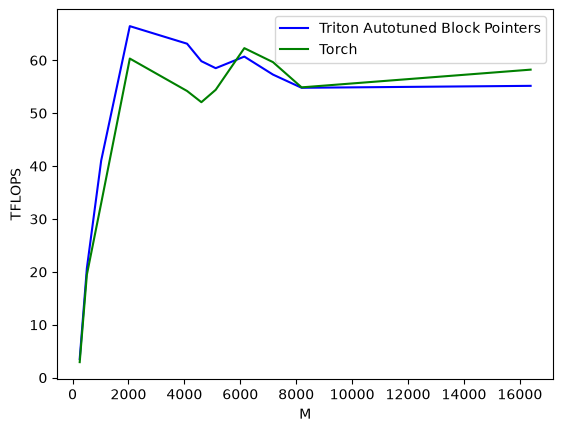
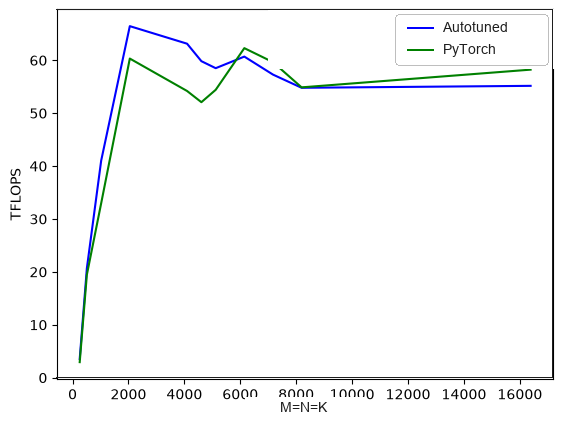
changes

diff --git a/triton_work/matrix_multiplication.py b/triton_work/matrix_multiplication.py
@@ -109,8 +109,9 @@ def matrix_multiplication_naive_blocked(a: torch.Tensor, b: torch.Tensor):
             x_vals=[128, 256, 512, 768, 1024],
             line_arg='provider',
             line_vals=['triton_naive', 'triton_naive_blocked', 'torch'],
-            line_names=['Triton Naive', 'Triton Naive Blocked', 'Torch'],
+            line_names=['Naive', 'K-blocked', 'PyTorch'],
             styles=[('blue', '-'), ('orange', '-'), ('green', '-')],
+            xlabel='M=N=K',
             ylabel='TFLOPS',
             y_log=True,
             plot_name=f'matmul_naive_vs_naiveblocked_{dtype_name}',
@@ -352,13 +353,14 @@ def matrix_multiplication_tiled(
             'torch',
         ],
         line_names=[
-            'Triton 64x64x64',
-            'Triton 128x128x64', 'Torch',
+            '64x64x64',
+            '128x128x64', 'PyTorch',
         ],
         styles=[
             ('blue', '-'),
             ('orange', '-'), ('green', '-'),
         ],
+        xlabel='M=N=K',
         ylabel='TFLOPS',
         plot_name='matmul-tiled-vs-torch-fp16',
         args={},
@@ -546,14 +548,14 @@ def matrix_multiplication_tiled_kernel_supergrouped(
         a_mask = m_mask[:, None] & k_mask[None, :]
         b_mask = k_mask[:, None] & n_mask[None, :]
 
-        a_vals = tl.load(a_ptrs, mask=a_mask)
-        b_vals = tl.load(b_ptrs, mask=b_mask)
+        a_vals = tl.load(a_ptrs, mask=a_mask, other=0.0)
+        b_vals = tl.load(b_ptrs, mask=b_mask, other=0.0)
 
         acc = tl.dot(a_vals, b_vals, acc)
 
     c_offsets = m_offsets[:, None] * c_row_stride + n_offsets[None, :] * c_col_stride
     c_mask = m_mask[:, None] & n_mask[None, :]
-    tl.store(c_ptr + c_offsets, acc.to(tl.float16), mask=c_mask)
+    tl.store(c_ptr + c_offsets, acc, mask=c_mask)
 
 
 def matrix_multiplication_tiled_supergrouped(
@@ -606,15 +608,16 @@ def matrix_multiplication_tiled_supergrouped(
             'torch',
         ],
         line_names=[
-            'Triton Supergrouped 64x64x64',
-            'Triton Supergrouped 128x128x64',
-            'Torch',
+            'Grouped 64x64x64',
+            'Grouped 128x128x64',
+            'PyTorch',
         ],
         styles=[
             ('blue', '-'),
             ('orange', '-'),
             ('green', '-'),
         ],
+        xlabel='M=N=K',
         ylabel='TFLOPS',
         plot_name='matmul-supergrouped-vs-torch-fp16',
         args={},
@@ -706,7 +709,7 @@ def matrix_multiplication_block_pointers_kernel(
         a_block_ptr = tl.advance(a_block_ptr, (0, BLOCK_SIZE_K))
         b_block_ptr = tl.advance(b_block_ptr, (BLOCK_SIZE_K, 0))
 
-    tl.store(c_block_ptr, acc.to(tl.float16), boundary_check=(0, 1))
+    tl.store(c_block_ptr, acc, boundary_check=(0, 1))
 
 
 def matrix_multiplication_block_pointers(
@@ -812,7 +815,7 @@ def matrix_multiplication_persistent_kernel(
             a_block_ptr = tl.advance(a_block_ptr, (0, BLOCK_SIZE_K))
             b_block_ptr = tl.advance(b_block_ptr, (BLOCK_SIZE_K, 0))
 
-        tl.store(c_block_ptr, acc.to(tl.float16), boundary_check=(0, 1))
+        tl.store(c_block_ptr, acc, boundary_check=(0, 1))
 
 
 def matrix_multiplication_persistent(
@@ -867,11 +870,11 @@ def matrix_multiplication_persistent(
             'torch',
         ],
         line_names=[
-            'Triton Block Pointers 64x64x64',
-            'Triton Persistent Block Pointers 64x64x64',
-            'Triton Block Pointers 128x128x64',
-            'Triton Persistent Block Pointers 128x128x64',
-            'Torch',
+            'Block ptr 64x64x64',
+            'Persistent 64x64x64',
+            'Block ptr 128x128x64',
+            'Persistent 128x128x64',
+            'PyTorch',
         ],
         styles=[
             ('blue', '-'),
@@ -880,6 +883,7 @@ def matrix_multiplication_persistent(
             ('orange', '--'),
             ('green', '-'),
         ],
+        xlabel='M=N=K',
         ylabel='TFLOPS',
         plot_name='matmul-block-pointers-vs-persistent-vs-torch-fp16',
         args={},
@@ -1015,7 +1019,7 @@ def matrix_multiplication_autotuned_kernel(
         a_block_ptr = tl.advance(a_block_ptr, (0, BLOCK_SIZE_K))
         b_block_ptr = tl.advance(b_block_ptr, (BLOCK_SIZE_K, 0))
 
-    tl.store(c_block_ptr, acc.to(tl.float16), boundary_check=(0, 1))
+    tl.store(c_block_ptr, acc, boundary_check=(0, 1))
 
 
 def matrix_multiplication_autotuned(a: torch.Tensor, b: torch.Tensor):
@@ -1046,8 +1050,9 @@ def matrix_multiplication_autotuned(a: torch.Tensor, b: torch.Tensor):
         ],
         line_arg='provider',
         line_vals=['triton_autotuned', 'torch'],
-        line_names=['Triton Autotuned Block Pointers', 'Torch'],
+        line_names=['Autotuned', 'PyTorch'],
         styles=[('blue', '-'), ('green', '-')],
+        xlabel='M=N=K',
         ylabel='TFLOPS',
         plot_name='matmul-autotuned-block-pointers-vs-torch-fp16',
         args={},

diff --git a/triton_work/matrix_multiplication.md b/triton_work/matrix_multiplication.md
@@ -218,6 +218,8 @@ Note that the accumulator is now a 2D array of size BLOCK_SIZE_M x BLOCK_SIZE_N,
 
 As we discussed, to compute the output tile C[m_tile, n_tile], we need to compute the dot product of A_m and B_n, which are now 2D arrays of size BLOCK_SIZE_M x K and K x BLOCK_SIZE_N respectively.
 We do this operation in blocks of size BLOCK_SIZE_K in the inner loop.
+The important change is not only that the memory accesses are coalesced. For these FP16 tile shapes on the NVIDIA L4, Triton can lower `tl.dot` to Tensor Core matrix multiply-accumulate instructions while accumulating into the FP32 `acc` tensor. The naive blocked kernel instead expresses the work as elementwise multiplication followed by `tl.sum`, so it does not expose a block matrix operation that can use Tensor Cores.
+
 The offsets for A and B are computed as `m_offsets[:, None] * a_row_stride + k_offsets[None, :] * a_col_stride` and `k_offsets[:, None] * b_row_stride + n_offsets[None, :] * b_col_stride` respectively.
 Quite a bit symmetric as we like to see.
 Then we compute the masks for A and B, `m_mask[:, None] & k_mask[None, :]` and `k_mask[:, None] & n_mask[None, :]` respectively.
@@ -234,21 +236,21 @@ We will be using square matrices once again.
 
 | M | N | K | Triton 64×64×64 | Triton 128×128×64 | Torch |
 |---:|---:|---:|---:|---:|---:|
-| 256 | 256 | 256 | 3.321312 | 2.617146 | 3.063213 |
-| 512 | 512 | 512 | 16.344097 | 13.393646 | 17.739589 |
-| 1024 | 1024 | 1024 | 40.089692 | 32.203279 | 33.063282 |
-| 2048 | 2048 | 2048 | 52.578786 | 58.014931 | 60.604645 |
-| 4096 | 4096 | 4096 | 43.445212 | 53.805863 | 52.393391 |
-| 4608 | 4608 | 4608 | 40.038352 | 48.826759 | 52.697203 |
-| 5120 | 5120 | 5120 | 26.867392 | 37.117943 | 54.394575 |
-| 6144 | 6144 | 6144 | 17.078184 | 29.612991 | 64.068548 |
-| 7168 | 7168 | 7168 | 21.833254 | 28.313260 | 59.709510 |
-| 8192 | 8192 | 8192 | 17.893498 | 26.176944 | 56.509382 |
-| 16384 | 16384 | 16384 | 14.667996 | 28.089333 | 55.831171 |
+| 256 | 256 | 256 | 3.3 | 2.6 | 3.1 |
+| 512 | 512 | 512 | 16.3 | 13.4 | 17.7 |
+| 1024 | 1024 | 1024 | 40.1 | 32.2 | 33.1 |
+| 2048 | 2048 | 2048 | 52.6 | 58.0 | 60.6 |
+| 4096 | 4096 | 4096 | 43.4 | 53.8 | 52.4 |
+| 4608 | 4608 | 4608 | 40.0 | 48.8 | 52.7 |
+| 5120 | 5120 | 5120 | 26.9 | 37.1 | 54.4 |
+| 6144 | 6144 | 6144 | 17.1 | 29.6 | 64.1 |
+| 7168 | 7168 | 7168 | 21.8 | 28.3 | 59.7 |
+| 8192 | 8192 | 8192 | 17.9 | 26.2 | 56.5 |
+| 16384 | 16384 | 16384 | 14.7 | 28.1 | 55.8 |
 
 Remember that for the L4 GPU, we have the following properties:
 - 58 SMs
-- 48 MB L2
+- 48 MiB L2
 - 300 GB/s memory bandwidth
 - 121 TFLOP/s FP16 performance
 
@@ -258,32 +260,41 @@ Now, let's try to make sense of the results we are seeing.
 
 As we said before, we are using FP16 square matrices here.
 The memory of such a matrix is 2N^2 bytes.
-For the 4608x4608 matrix, this is 40.5 MB, and for the 5120x5120 matrix, this is 50 MB.
+For the 4608x4608 matrix, this is 40.5 MiB, and for the 5120x5120 matrix, this is 50 MiB.
 The largest square matrix that can fit in the L2 cache is
 
-```
-\(n_\text{max}
+$$
+n_\text{max}
 =
-\sqrt{\frac{48\cdot2^{20}}{2}}
-\approx5017\)
-```
+\sqrt{\frac{48 \cdot 2^{20}}{2}}
+\approx 5017
+$$
 
 In this implementation, we do not have an explicit grouped tile ordering.
 Because of that, while for 4096 and 4608 matrices, one of the operands can reasonably fit in the L2 cache, after that point, programs can sweep too far across one grid dimension before returning to an operand tile which has already been evicted from the L2 cache.
-Of course, it's not just one operand taking space in the L2 cache, but after that point, 5017, we can't theoritically fit an operand anymore in the L2 cache.
+Of course, an operand is not the only data occupying L2. But beyond this theoretical threshold of 5017, even one complete operand cannot fit in the cache.
 
 ### Why does 128x128 eventually beat 64x64?
 
 One program that computes one output tile of size TxT from A and B matrices of size MxK and KxN respectively performs T^2K multiplications and T^2K additions, totaling 2T^2K FLOPs.
-Ignoring the cache reuse, it reads 2TK + 2KT = 4TK bytes of data (FP16 occupies 2 bytes).
-This gives an arithmetic intensity of 2T^2K / 4TK = T/2.
+Ignoring cache reuse, it reads 2TK + 2KT = 4TK bytes from A and B and writes 2T^2 bytes to C, because FP16 occupies 2 bytes.
+The resulting arithmetic intensity is
 
-Now looking at 64x64 and 128x128 output tiles, we expect
+$$
+\frac{2T^2K}{4TK + 2T^2}
+=
+\frac{TK}{2K + T}
+\approx
+\frac{T}{2}
+\quad\text{when } K \gg T.
+$$
+
+For the largest benchmark, where K=16384, this gives
 
 | Output tile | No-L2-reuse arithmetic intensity | DRAM roof at 300 GB/s |
 |---|---:|---:|
-| `64×64` | 32 FLOP/byte | 9.6 TFLOP/s |
-| `128×128` | 64 FLOP/byte | 19.2 TFLOP/s |
+| `64×64` | 31.9 FLOP/byte | 9.6 TFLOP/s |
+| `128×128` | 63.8 FLOP/byte | 19.1 TFLOP/s |
 
 At the largest matrix size we tested, 16384x16384, we have
 
@@ -297,7 +308,9 @@ Quite a bit consistent with our expectations with both exceeding the DRAM roof a
 For a matrix multiplication between two matrices of size MxK and KxN respectively, with tiling size TxT, we launch a grid of size (triton.cdiv(M, T), triton.cdiv(N, T)).
 In our case, as we use square matrices, we have (M, N) = (N, N), and as a result, we get 
 
-P = ceiling(N/T)^2
+$$
+P = \left\lceil \frac{N}{T} \right\rceil^2
+$$
 
 programs. For small matrices, this means
 
@@ -310,8 +323,8 @@ programs. For small matrices, this means
 
 Since we are using an L4 GPU, we have 58 SMs.
 But for the matrix size 256x256, only 4 programs are launched for tile size 128x128.
-So, at the lower end, we have a severe underutilization of the SMs, and simply put this problem is more severe for 128x128 than 64x64.
-This is why 64x64 does better than 128x128 at smaller matrix sizes.
+So, at the lower end, we have severe underutilization of the SMs, and this problem is more pronounced for 128x128 than for 64x64.
+This explains the 256 and 512 cases. At 1024, the 128x128 configuration launches 64 programs, which is already enough to cover the L4's 58 SMs. Its lower performance there must therefore also involve factors such as per-program register use, occupancy, and the chosen warp and pipeline configuration.
 
 ### Why does performance peak around 2048x2048?
 
@@ -319,7 +332,7 @@ We see that for all tile and inner loop block sizes, performance peaks around 20
 Why is that?
 Let's look at the memory requirements for the different matrix sizes.
 
-| Matrix | Memory (MB) |
+| Matrix | Memory per FP16 matrix (MiB) |
 |---:|---:|
 | 1024 | 2 |
 | 2048 | 8 |
@@ -327,7 +340,7 @@ Let's look at the memory requirements for the different matrix sizes.
 | 8192 | 128 |
 | 16384 | 512 |
 
-Given that we have 48 MB of L2 cache, up to and including 2048x2048 matrices, we can fit both operands in the L2 cache.
+Given that we have 48 MiB of L2 cache, up to and including 2048x2048 matrices, we can fit both operands in the L2 cache.
 In fact, as output writes can outcompete the operand reads for L2 cache, it's good that we can fit even the output matrix in the L2 cache along with the operands for the 2048x2048 matrix case.
 But for the 4096x4096 matrix, we no longer can fit both operands in the L2 cache.
 And as we discussed before, starting from 5120x5120 matrices, we can't even fit one operand in the L2 cache which led to significant drop in performance.
@@ -465,14 +478,14 @@ def matrix_multiplication_tiled_kernel_supergrouped(
         a_mask = m_mask[:, None] & k_mask[None, :]
         b_mask = k_mask[:, None] & n_mask[None, :]
 
-        a_vals = tl.load(a_ptrs, mask=a_mask)
-        b_vals = tl.load(b_ptrs, mask=b_mask)
+        a_vals = tl.load(a_ptrs, mask=a_mask, other=0.0)
+        b_vals = tl.load(b_ptrs, mask=b_mask, other=0.0)
 
         acc = tl.dot(a_vals, b_vals, acc)
 
     c_offsets = m_offsets[:, None] * c_row_stride + n_offsets[None, :] * c_col_stride
     c_mask = m_mask[:, None] & n_mask[None, :]
-    tl.store(c_ptr + c_offsets, acc.to(tl.float16), mask=c_mask)
+    tl.store(c_ptr + c_offsets, acc, mask=c_mask)
 
 
 def matrix_multiplication_tiled_supergrouped(
@@ -589,7 +602,7 @@ Now let's look at the results:
 
 As we can see, the sharp drop in performance around 5120x5120 which was due to L2 cache misses is now gone.
 
-## Block Pointers Implementation (Same performance but simpler implementation)
+## Block Pointers Implementation (Same grouped algorithm, simpler addressing)
 
 Now, let's introduce a simplified version of implementing the kernels using block pointers.
 
@@ -661,7 +674,7 @@ def matrix_multiplication_block_pointers_kernel(
         a_block_ptr = tl.advance(a_block_ptr, (0, BLOCK_SIZE_K))
         b_block_ptr = tl.advance(b_block_ptr, (BLOCK_SIZE_K, 0))
 
-    tl.store(c_block_ptr, acc.to(tl.float16), boundary_check=(0, 1))
+    tl.store(c_block_ptr, acc, boundary_check=(0, 1))
 ```
 
 In block pointers implementation, we use the `tl.make_block_ptr` function to create block pointers for the matrices we will be using.
@@ -693,14 +706,14 @@ Now the results for this implementation is
 
 ![FP16 matrix multiplication performance: block pointers Triton, and PyTorch](figures/matmul_blockpointers.png)
 
-As we can see, the performance is very close to the tiled implementation.
-The purpose of block pointers implementation is not necessarily to improve the performance upon the tiled implementation, but rather to simplify the implementation and make it more readable.
+As we can see, the performance is very close to the supergrouped implementation because the program ordering and computation are unchanged.
+The purpose of the block-pointer implementation is not necessarily to improve performance over the supergrouped implementation, but to express the same addressing and boundary handling more clearly.
 
 ## Autotuning
 
 In the tiled and supergrouped implementations, we have seen that the performance is highly dependent on the choices like block sizes.
 But there are other factors like warp sizes, number of stages, etc. that can also affect the performance.
-With autotuning, we can automatically find the best configuration for the kernel.
+With autotuning, we can automatically search for the best configuration for the kernel among a set of configurations.
 
 We achieve the autotuning like this
 
@@ -749,3 +762,13 @@ The results for this implementation is
 ![FP16 matrix multiplication performance: autotuned Triton, and PyTorch](figures/matmul_autotuning.png)
 
 As we can see, the performance matches the torch implementation quite well.
+
+## Conclusion
+
+The progression through these kernels highlights five lessons:
+
+- Blocking the K dimension exposes more parallelism within each Triton program.
+- Tiling the output enables Tensor Core matrix-multiply instructions and reuses loaded values across many outputs.
+- Program scheduling affects which operand tiles remain reusable in L2 cache.
+- Block pointers simplify multidimensional addressing and boundary handling without changing the grouped algorithm.
+- Autotuning selects block sizes, warps per program, and pipeline stages for each matrix shape.
